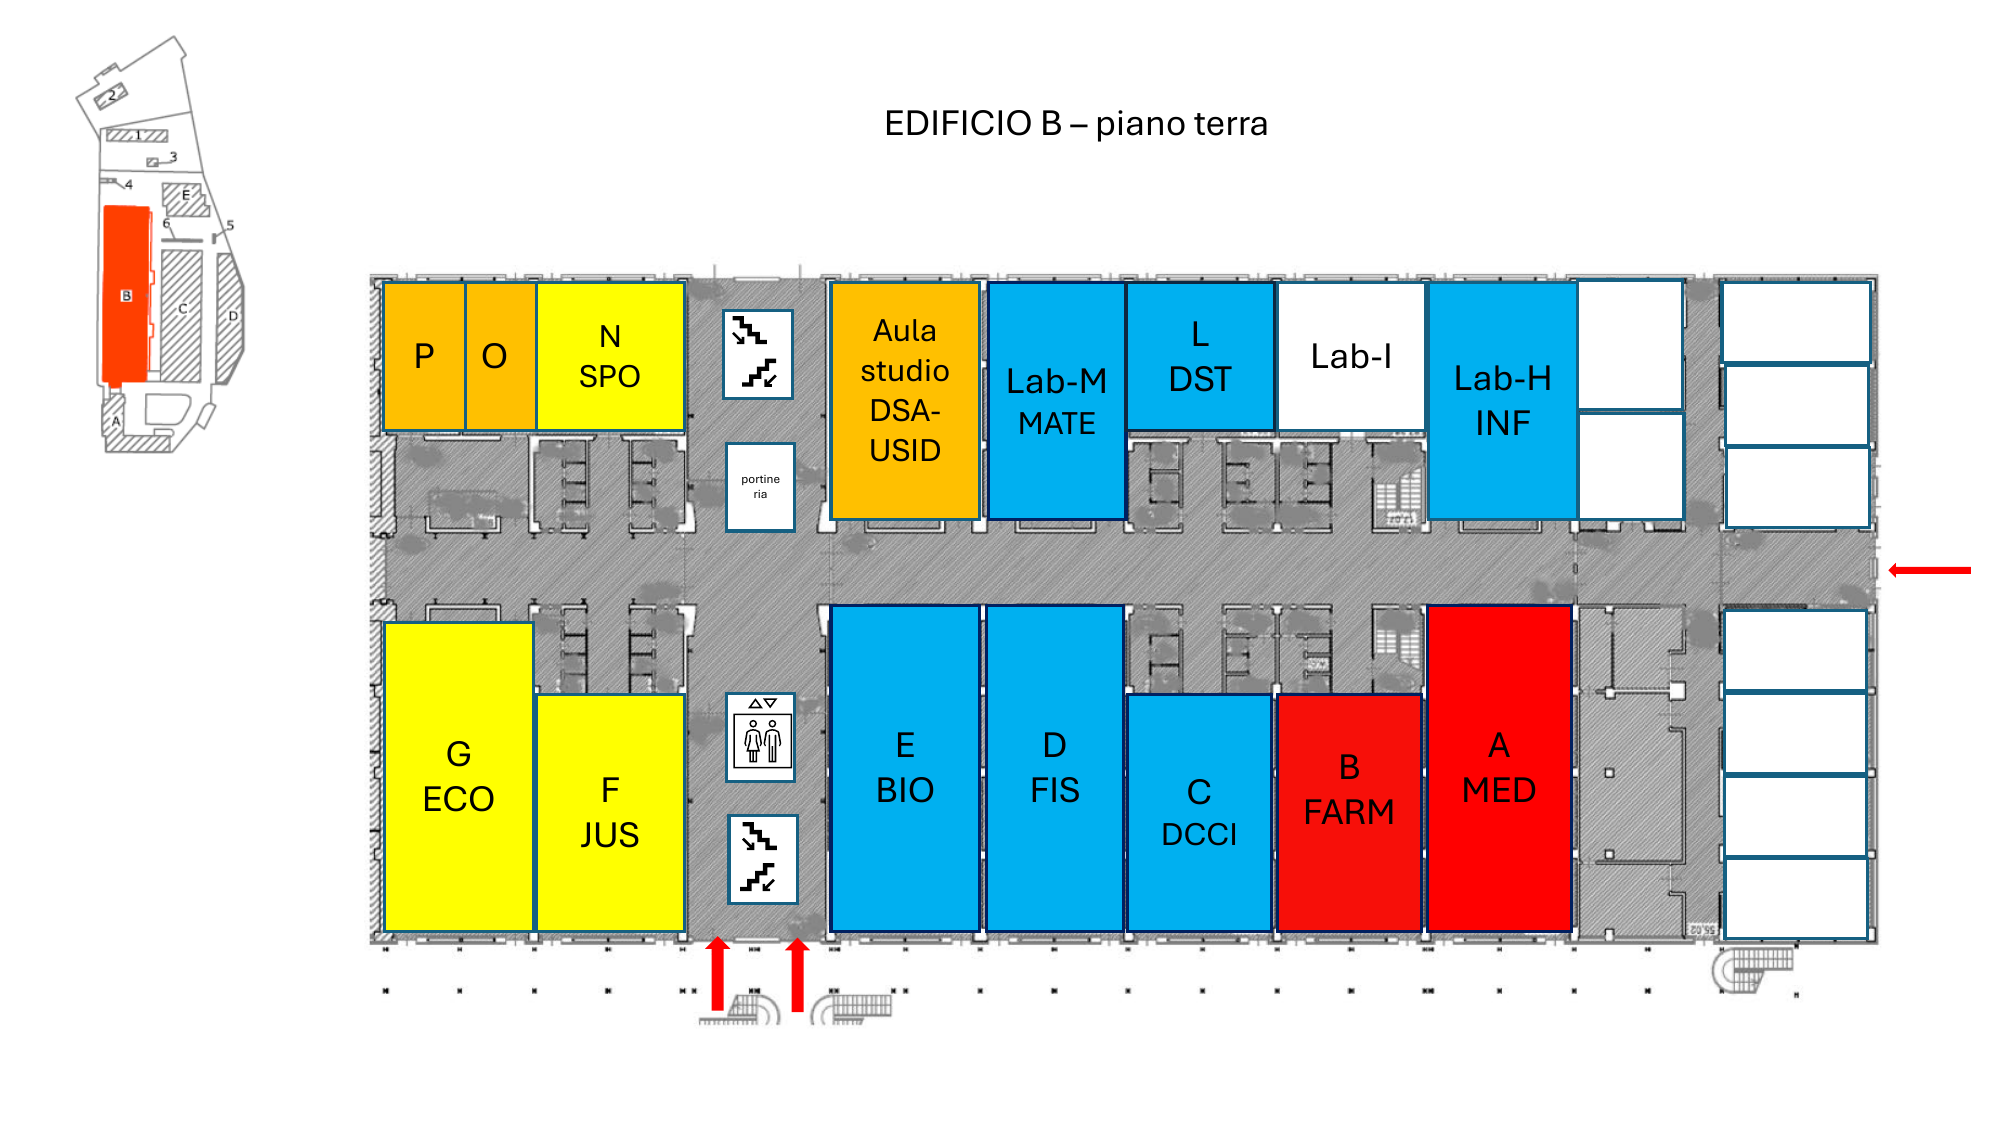
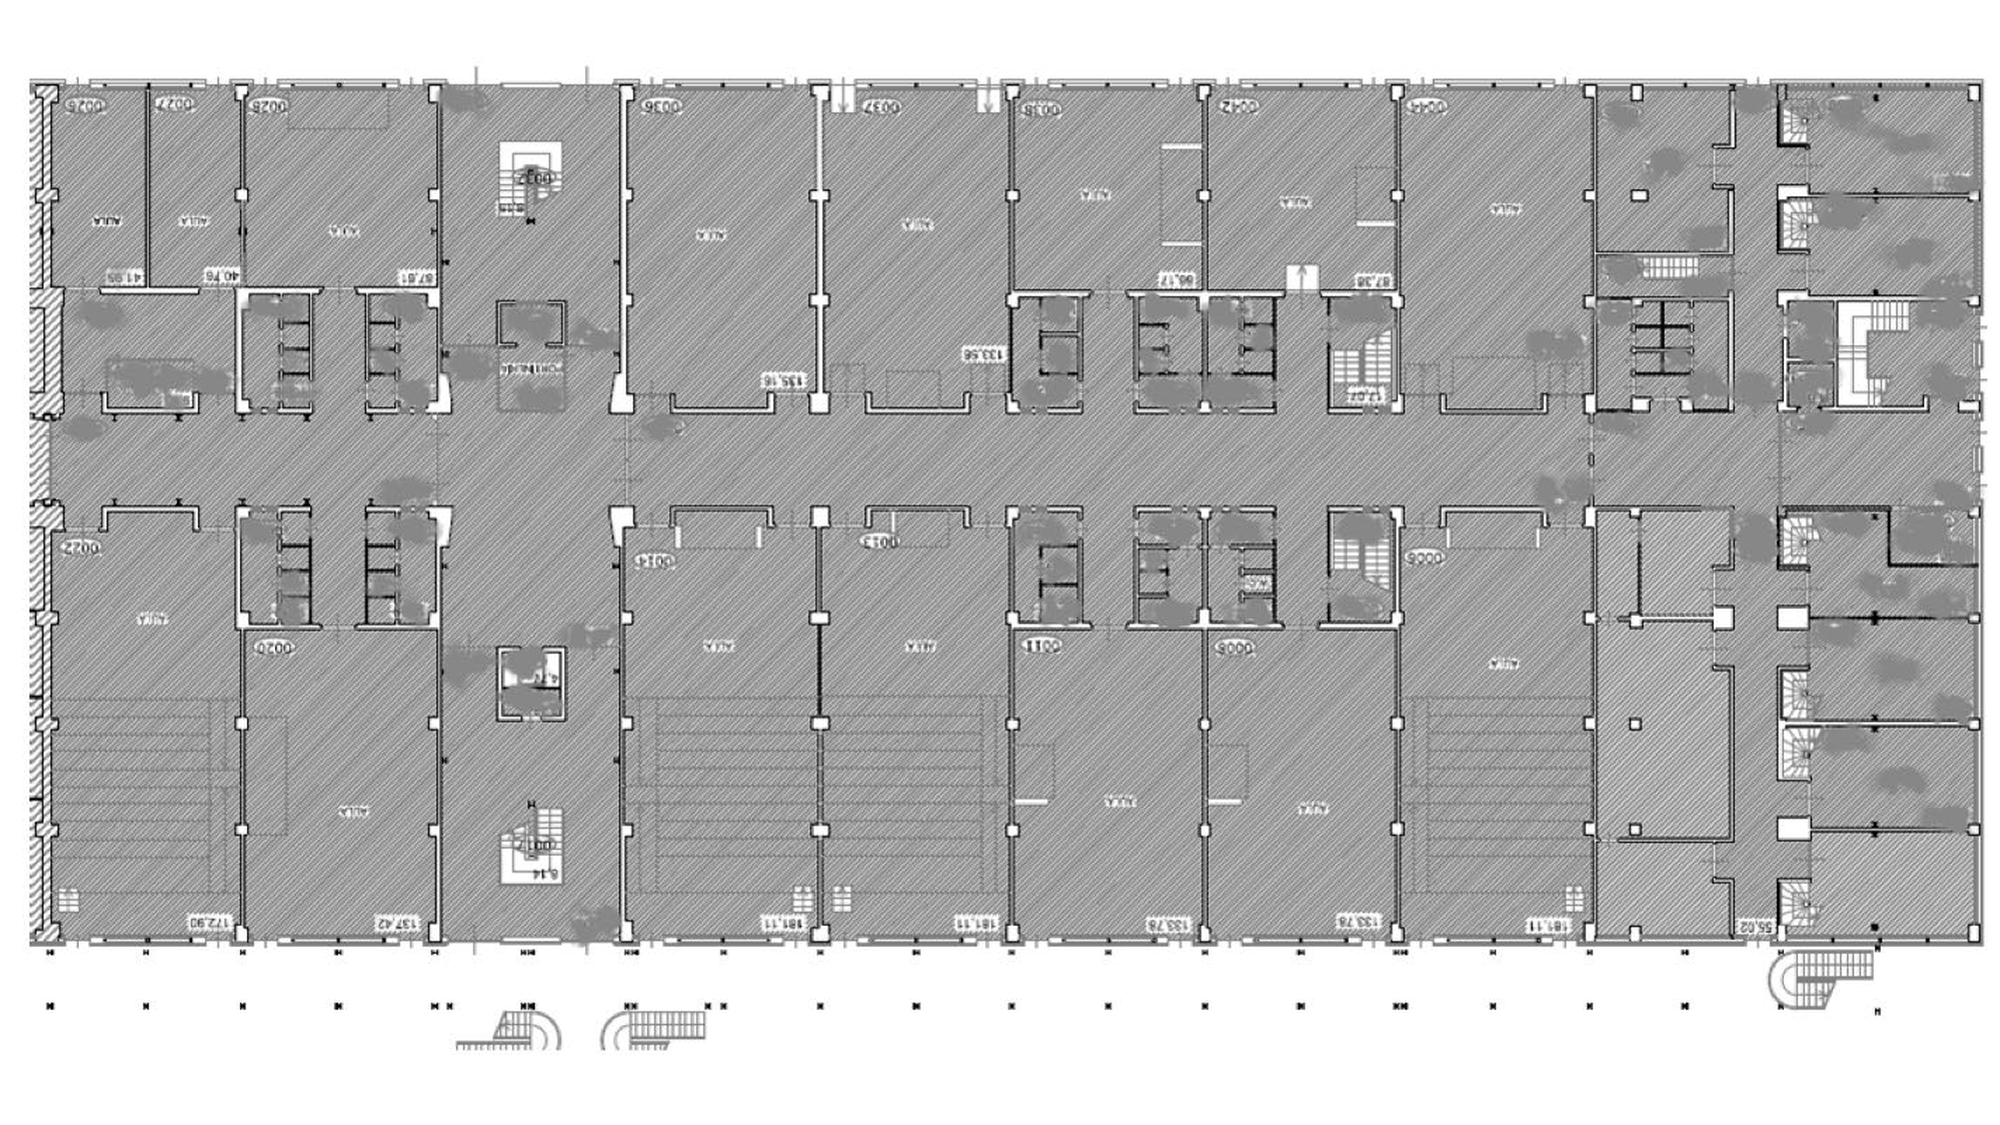
Aggiorna planimetrie con immagini HD e coordinate ricalibrate
- floor_B.png: nuova planimetria architett. 1425×738 → scalata 2000×1125
  (risoluzione nettamente superiore, tracciati delle aule ben visibili)
- floor_D.png: nuova planimetria 1239×692 → scalata 2000×1125
- FLOOR_PLANS: coordinate ricalibrate via analisi pixel
  Edificio B – aule grandi (G-A): basate su rilevamento pareti x=53…1779
    con scale corretti a x=243-439 e x=1011-1205
  Edificio B – fila superiore (N, LABM, L, LABH): coordinate aggiornate
  Edificio D – 4 aule (D3/D5/D2/D4): larghezze proporzionali ai dati
    architettonici (221.80 / 225.45 / 224.75 / 179.95 cm)

diff --git a/programma.html b/programma.html
@@ -928,29 +928,30 @@ const FLOOR_PLANS = {
     img: 'assets/floor_B.png',
     title: 'Edificio B – Piano Terra',
     rooms: {
-      // fila superiore
-      N:    { x:540,  y:284, w:148, h:152, label:'Aula N',  dept:'Scienze Politiche' },
-      LABM: { x:986,  y:284, w:144, h:234, label:'Lab-M',   dept:'Matematica' },
-      L:    { x:1130, y:284, w:150, h:152, label:'Aula L',  dept:'Scienze della Terra' },
-      LABH: { x:1426, y:284, w:158, h:234, label:'Lab-H',   dept:'Informatica' },
-      // fila inferiore
-      G:    { x:388,  y:606, w:148, h:326, label:'Aula G',  dept:'Economia e Management' },
-      F:    { x:540,  y:606, w:148, h:326, label:'Aula F',  dept:'Giurisprudenza' },
-      E:    { x:836,  y:606, w:148, h:326, label:'Aula E',  dept:'Biologia' },
-      D:    { x:988,  y:606, w:140, h:326, label:'Aula D',  dept:'Fisica' },
-      C:    { x:1132, y:606, w:140, h:326, label:'Aula C',  dept:'Chimica e Chimica Industriale' },
-      B:    { x:1284, y:606, w:142, h:326, label:'Aula B',  dept:'Farmacia' },
-      A:    { x:1428, y:606, w:148, h:326, label:'Aula A',  dept:'Scuola di Medicina' },
+      // fila superiore (aule secondarie + laboratori) — calibrate su planimetria v2
+      N:    { x:245,  y:90,  w:192, h:400, label:'Aula N',  dept:'Scienze Politiche' },
+      LABM: { x:629,  y:90,  w:195, h:400, label:'Lab-M',   dept:'Matematica' },
+      L:    { x:826,  y:90,  w:183, h:400, label:'Aula L',  dept:'Scienze della Terra' },
+      LABH: { x:1398, y:90,  w:194, h:400, label:'Lab-H',   dept:'Informatica' },
+      // fila inferiore (aule principali) — scale ai x=243-439 e x=1011-1205
+      G:    { x:55,   y:508, w:186, h:530, label:'Aula G',  dept:'Economia e Management' },
+      F:    { x:441,  y:508, w:179, h:530, label:'Aula F',  dept:'Giurisprudenza' },
+      E:    { x:624,  y:508, w:193, h:530, label:'Aula E',  dept:'Biologia' },
+      D:    { x:821,  y:508, w:188, h:530, label:'Aula D',  dept:'Fisica' },
+      C:    { x:1207, y:508, w:188, h:530, label:'Aula C',  dept:'Chimica e Chimica Industriale' },
+      B:    { x:1399, y:508, w:193, h:530, label:'Aula B',  dept:'Farmacia' },
+      A:    { x:1596, y:508, w:133, h:530, label:'Aula A',  dept:'Scuola di Medicina' },
     }
   },
   D: {
     img: 'assets/floor_D.png',
     title: 'Edificio D',
     rooms: {
-      D3: { x:472,  y:330, w:336, h:462, label:'Aula D3', dept:'Filologia, Letteratura e Linguistica' },
-      D5: { x:832,  y:330, w:336, h:462, label:'Aula D5', dept:'Civiltà e Forme del Sapere' },
-      D2: { x:1184, y:330, w:336, h:462, label:'Aula D2', dept:'Veterinaria' },
-      D4: { x:1536, y:330, w:280, h:462, label:'Aula D4', dept:'Scienze Agrarie, Alimentari e Agro-Ambientali' },
+      // 4 aule affiancate — calibrate su planimetria v2 (larghezze ~221/225/224/179 cm)
+      D3: { x:14,   y:100, w:508, h:780, label:'Aula D3', dept:'Filologia, Letteratura e Linguistica' },
+      D5: { x:522,  y:100, w:512, h:780, label:'Aula D5', dept:'Civiltà e Forme del Sapere' },
+      D2: { x:1034, y:100, w:513, h:780, label:'Aula D2', dept:'Veterinaria' },
+      D4: { x:1547, y:100, w:408, h:780, label:'Aula D4', dept:'Scienze Agrarie, Alimentari e Agro-Ambientali' },
     }
   },
   E: {
